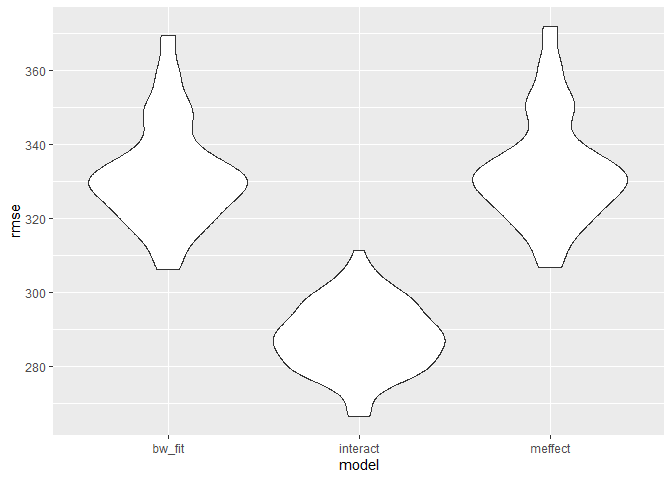
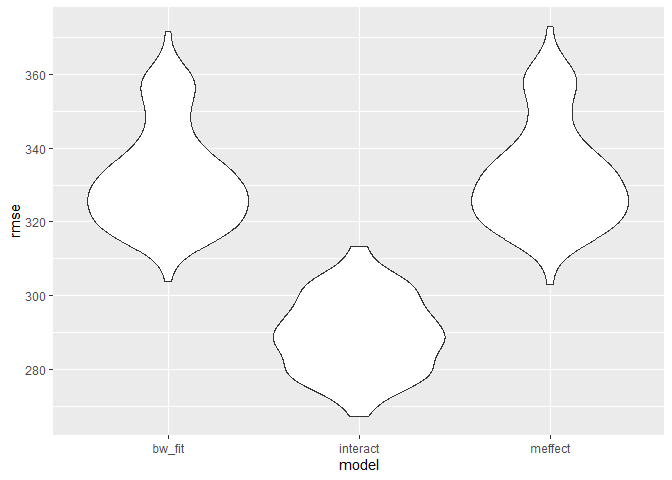
4th commit: bootstrapped and tried to plot distribution of log(b0 *b1) and r^2.

diff --git a/p8105_hw6_sz2800.md b/p8105_hw6_sz2800.md
@@ -268,9 +268,20 @@ bw_cv_plot
 
 ![](p8105_hw6_sz2800_files/figure-gfm/unnamed-chunk-8-1.png)<!-- -->
 
+The model with the 3 way interaction term has the lowest root mean
+square error and thus seems to be the model that predicts birthweight
+best. However, it is also the model with the most variables and is not
+parsimonious. My model has 5 variables and has similar root mean square
+error with the model that has only the main effect (2 variables).
+Therefore, the most parsimonious model is the model with only the main
+effects, and the model with the lowest root mean square error is the
+model with the three way interaction.
+
 ## Question 2:
 
 ``` r
+set.seed(1)
+
 weather_df = 
   rnoaa::meteo_pull_monitors(
     c("USW00094728"),
@@ -304,11 +315,55 @@ Linear model with tmin as predictor and tmax as response
 weather_mod = lm(tmax ~ tmin, data = weather_df) %>% 
   broom::glance()
 
-weather_mod
+boot_sample = function(df) {
+  sample_frac(df, replace = TRUE)
+}
 ```
 
-    ## # A tibble: 1 x 11
-    ##   r.squared adj.r.squared sigma statistic   p.value    df logLik   AIC
-    ##       <dbl>         <dbl> <dbl>     <dbl>     <dbl> <int>  <dbl> <dbl>
-    ## 1     0.912         0.911  2.94     3741. 2.98e-193     2  -910. 1827.
-    ## # ... with 3 more variables: BIC <dbl>, deviance <dbl>, df.residual <int>
+Wrangling data to plot log(beta0 \* beta1) estimates
+
+``` r
+log_beta_pre = weather_df %>% 
+  modelr::bootstrap(n = 1000) %>% 
+  mutate(
+    models = map(strap, ~lm(tmax ~ tmin, data = .x)),
+    results = map(models, broom::tidy)) %>% 
+  select(-strap, -models) %>% 
+  unnest(results) %>% 
+  select(-std.error, -statistic, -p.value) %>% 
+  pivot_wider(
+    names_from = term,
+    values_from = estimate)
+
+names = c("id", "beta0", "tmin")
+colnames(log_beta_pre) = names
+
+log_beta = log_beta_pre %>% 
+  mutate(log_bvalue = log(beta0 * tmin))
+
+log_beta_plot = log_beta %>% 
+  ggplot(aes(x = log_bvalue)) +
+  geom_density()
+
+log_beta_plot
+```
+
+![](p8105_hw6_sz2800_files/figure-gfm/unnamed-chunk-11-1.png)<!-- -->
+
+``` r
+r2_pre = weather_df %>% 
+  modelr::bootstrap(n = 1000) %>% 
+  mutate(
+    models = map(strap, ~lm(tmax ~ tmin, data = .x)),
+    results = map(models, broom::glance)) %>% 
+  select(-strap, -models) %>% 
+  unnest(results)
+
+r2_plot = r2_pre %>% 
+  ggplot(aes(x = r.squared)) +
+  geom_density()
+
+r2_plot
+```
+
+![](p8105_hw6_sz2800_files/figure-gfm/unnamed-chunk-12-1.png)<!-- -->
